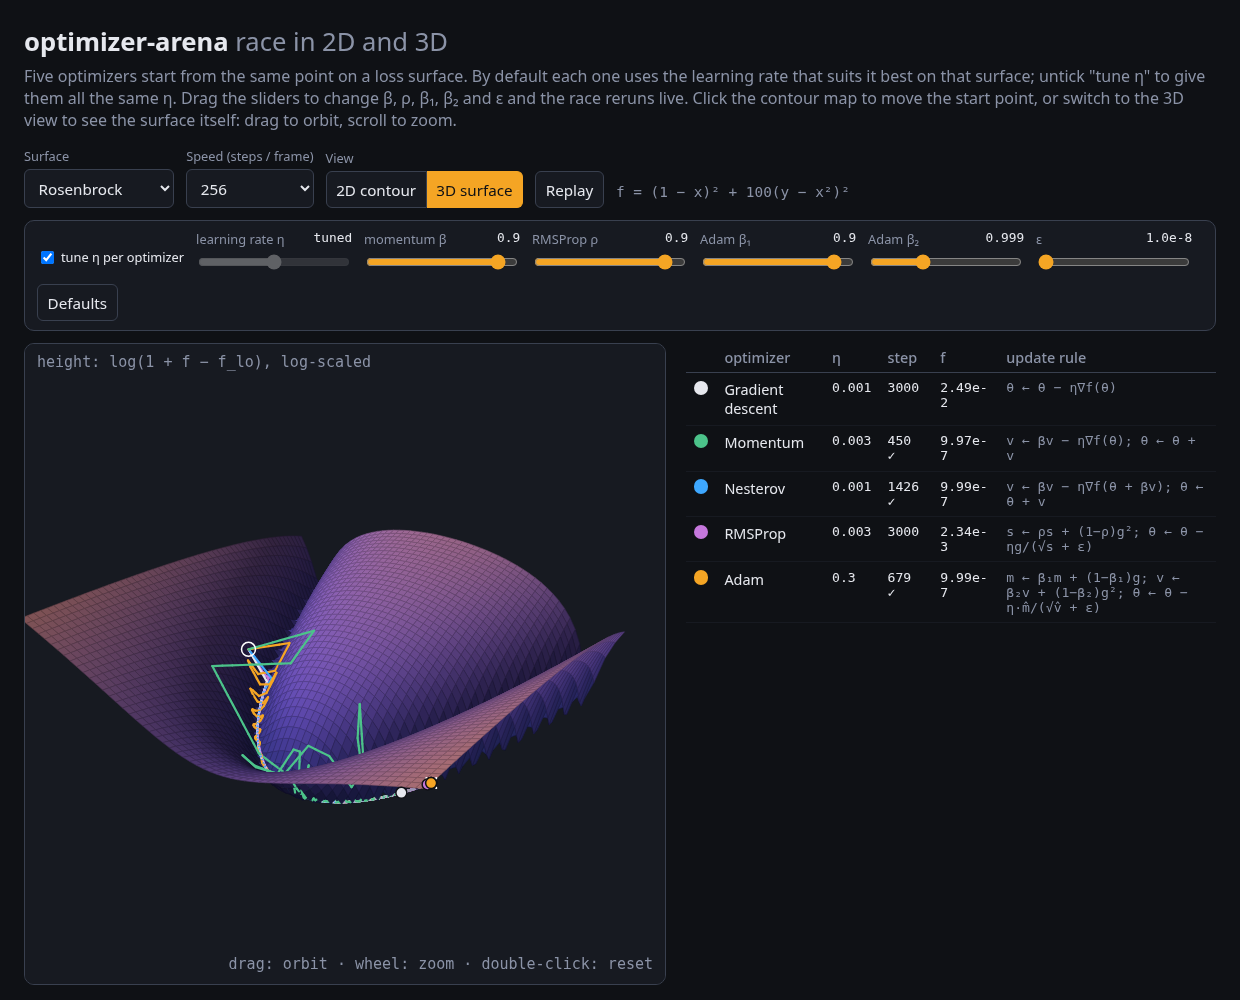
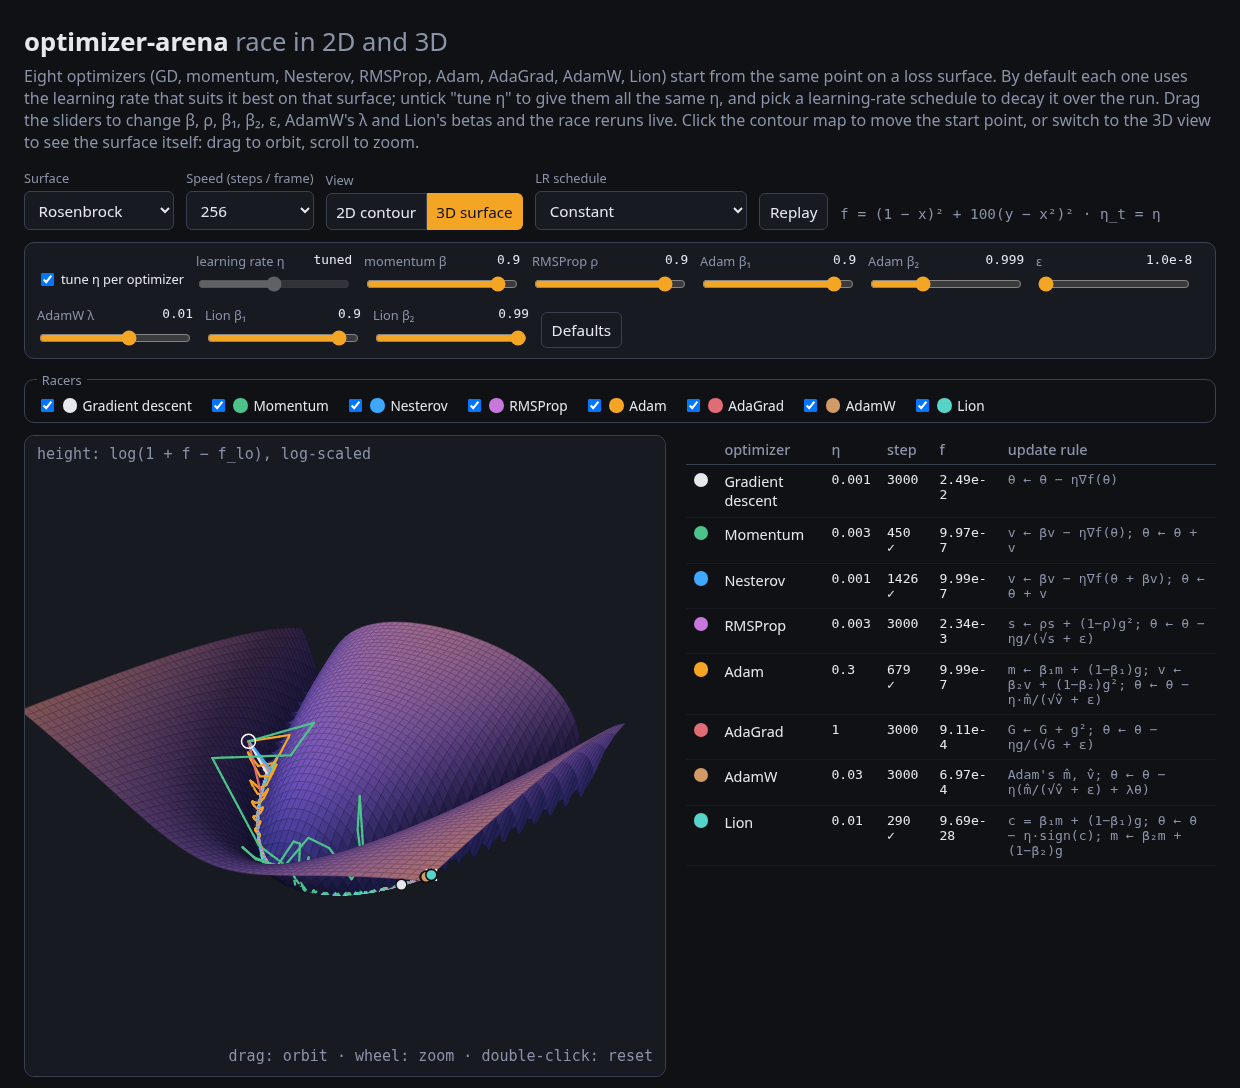
Day 5: README GIFs of the 2D and 3D views, and a measured 'which optimizer when' guide (#5)
Animated 2D/3D GIFs and refreshed stills captured headlessly (scripts/screenshots.sh), docs/which-optimizer.md built only from the measured tables, and Booth's stability limit corrected to 1/9 in docs/lr-schedules.md.

diff --git a/docs/which-optimizer.md b/docs/which-optimizer.md
@@ -1,0 +1,152 @@
+# Which optimizer when
+
+A guide drawn only from what this repo has measured. Every number below is
+copied from [race-results.md](race-results.md), [lr-schedules.md](lr-schedules.md),
+[hyperparameter-sweeps.md](hyperparameter-sweeps.md) or
+[saddle-point.md](saddle-point.md), and all of them are reproducible with
+`npm run race` and `npm run sweep` (re-run for this page on 2026-11-28; the
+tables matched byte for byte).
+
+The usual setup: best η from `{1e-4, 3e-4, …, 1}` per cell, 10,000-step budget,
+goal f − f* < 1e-6 (saddle: f < −1 at a fixed η = 0.01), constant rate unless a
+schedule is named. "Off-lattice" means the start nudged by (√2, e)·10⁻³, which
+removes Lion's exact-landing coincidences (see
+[lr-schedules.md](lr-schedules.md#why-two-tables-per-schedule-lions-lattice)).
+
+**Caveat first.** These are 2D surfaces with exact gradients, no noise, no
+mini-batches and no generalisation. They show *mechanisms* (what each update
+rule does to a valley, a saddle, a ripple) and are not a benchmark for training
+networks. Read "use X" as "on this kind of geometry, X did best here".
+
+## Short version
+
+| situation | pick | measured evidence |
+| --- | --- | --- |
+| No idea yet, one optimizer for everything | **Adam** (defaults) | Reaches the goal on 6 of 8 surfaces at a constant rate (every surface except Rastrigin and Ackley) and 7 of 8 with cosine (6 from the off-lattice start). Never the fastest by much, never stuck on a smooth surface. |
+| Long, curved, narrow valley (Rosenbrock) | **Momentum**, then Adam | Momentum 450 steps (440 off-lattice), Adam 679. GD stops at f = 5.9e-5 and RMSProp at 2.3e-4 after 10,000 steps. |
+| Ill-conditioned bowl (κ = 10) | **RMSProp**, Nesterov, AdaGrad | RMSProp 25 (η = 0.3), Nesterov 45, AdaGrad 47, GD 76. |
+| Well-conditioned convex problem (Booth, κ = 9) | **plain GD** or RMSProp | GD 14 (η = 0.03), RMSProp 14 (η = 1), Nesterov 21; momentum 88 and Adam 93. |
+| Saddle points | anything **with momentum or a normaliser** | Momentum 72, Nesterov 68, RMSProp 75, Adam 80, AdamW 81; GD 349 and AdaGrad 1,440. |
+| Many local minima (Rastrigin) or a flat outer region (Ackley) | **a decaying schedule** matters more than the optimizer | No optimizer reaches either at a constant rate. Cosine: GD reaches Rastrigin in 7,406 steps. Step decay: RMSProp reaches both (3,001 and 2,001). |
+| Short runs, few steps | **AdaGrad** at a large η | Fastest on Himmelblau (16 steps, η = 1) and 47 on the bowl. |
+| You need weight decay | **AdamW**, with a small λ | On Booth, λ = 0 takes 93 steps, 1e-4 takes 705, 1e-2 takes 8,910. |
+| Optimizer memory is tight | **Lion**, with a schedule | One state buffer instead of Adam's two; at a constant rate off the lattice it is slow (bowl 3,999 steps), with cosine it reaches 6 of 8 surfaces. |
+
+## Robustness: how many surfaces each one reaches
+
+Cells that reach the goal, out of the 8 surfaces, counted from the tables in
+[lr-schedules.md](lr-schedules.md) (standard start / off-lattice start):
+
+| schedule | GD | Momentum | Nesterov | RMSProp | Adam | AdaGrad | AdamW | Lion | total of 64 |
+| --- | --- | --- | --- | --- | --- | --- | --- | --- | --- |
+| constant | 5 / 5 | 6 / 6 | 6 / 6 | 4 / 4 | 6 / 6 | 6 / 6 | 5 / 5 | 5 / 5 | 43 / 43 |
+| step decay | 6 / 6 | 7 / 6 | 6 / 6 | **8** / 7 | 6 / 6 | 5 / 5 | 5 / 5 | 6 / 6 | 49 / 47 |
+| cosine | 7 / 7 | 6 / 7 | 6 / 6 | 7 / 7 | 7 / 6 | 5 / 6 | 6 / 6 | 6 / 6 | 50 / 51 |
+| warmup + cosine | 7 / 7 | 7 / 6 | 6 / 7 | 7 / 7 | 6 / 6 | 5 / 5 | 3 / 3 | 7 / 7 | 48 / 48 |
+
+What this says:
+
+- **Adding any schedule helps more than switching optimizer.** The best
+  constant-rate optimizers reach 6 surfaces; the totals go from 43 to 47–51
+  with a schedule.
+- **RMSProp is the most schedule-dependent.** Worst at a constant rate (4),
+  it is the only optimizer to reach all 8 (step decay, standard start):
+  Rosenbrock in 6,001, Rastrigin in 3,001 and Ackley in 2,001 steps. Its
+  roughly constant-size steps are what stall it on Rosenbrock; shrinking η
+  fixes exactly that.
+- **AdamW drops under warmup + cosine** (3 of 8): it misses Booth
+  (f = 3.0e-6), Beale (f = 1.4e-6) and Rosenbrock (f = 6.8e-6), each just
+  short of 1e-6, because the decay keeps pulling toward the origin.
+- **AdaGrad is the least helped** (5 or 6 everywhere): its step already
+  shrinks as 1/√(sum of g²), so a schedule shrinks it twice.
+
+## By optimizer
+
+**Gradient descent.** Best when the problem is well conditioned: 14 steps on
+Booth, 18 on Himmelblau. It is limited by η < 2/λ_max (0.19 converges and 0.21
+diverges on the bowl, a unit test), so on Rosenbrock it crawls (f = 5.9e-5
+after 10,000 steps), and on the saddle it grows by only (1 + 2η) per step:
+349 steps, derived exactly in [saddle-point.md](saddle-point.md). With cosine
+it is the one method that reaches Rastrigin's global minimum from both starts
+(7,406 steps).
+
+**Momentum (heavy ball).** The Rosenbrock winner (450) and a fast saddle
+escaper (72, from its eigenvalue ≈ 1.107 per step). β matters and the best
+value depends on the surface: on the bowl at η = 0.01, β = 0.8 takes 114 steps
+against 132 at 0.9 and 1,238 at 0.99; on Rosenbrock at η = 0.001, β = 0.95
+takes 637 against 1,386 at 0.9. With warmup + cosine it can use η = 0.1 on
+Beale and needs 127 steps instead of 405.
+
+**Nesterov.** Same as momentum but with the gradient taken at the look-ahead
+point, which damps overshoot: 45 on the bowl (momentum 132) and 68 on the
+saddle. On Rosenbrock it is slower than momentum (1,426 against 450).
+Warmup + cosine takes it from 403 to 117 steps on Beale.
+
+**RMSProp.** Per-coordinate scaling undoes conditioning: bowl 25, Booth 14.
+At a constant rate it stalls in valleys (Rosenbrock f = 2.3e-4; in the Beale
+ρ sweep at η = 0.001 only ρ = 0.999 converges, in 8,675 steps). Use it with a schedule:
+under step decay it reaches every surface.
+
+**Adam.** The safe default. Fastest of the non-Lion methods on Beale (205),
+second on Rosenbrock (679), and at the bottom of Ackley's funnel under cosine
+(9,981 steps). Keep the defaults: on Rosenbrock at η = 0.1, β₁ = 0.9 takes
+1,139 steps, β₁ = 0 or 0.5 never get there, and β₂ = 0.9 or 0.99 also miss.
+ε barely matters until it is large (bowl: 149 steps for every ε up to 0.01,
+167 at ε = 1). Its weak spot is easy convex problems, where it pays for its
+averaging: 93 steps on Booth against GD's 14.
+
+**AdaGrad.** The step only shrinks, so the largest rate in the grid (η = 1)
+wins for it everywhere it converges. That makes it excellent early
+(Himmelblau 16, bowl 47) and poor late: Rosenbrock 8,491 and the saddle 1,440
+(√t growth, about 1/(8η²) = 1,250 predicted). Do not combine it with warmup:
+on the bowl it goes from 47 to 571, because the sum of g² is built up while η
+is still tiny. ε is irrelevant up to 0.01 (47 steps).
+
+**AdamW.** Equal to Adam when the minimum is at the origin (bowl 124 against
+132, saddle 81 against 80), and slower everywhere else because decoupled decay
+moves the fixed point toward 0: Booth 8,910, Beale 9,497, Himmelblau 4,336, and
+Rosenbrock stops at f = 3.4e-6. Booth across λ: 93 (λ = 0), 93 (1e-5), 705
+(1e-4), 4,616 (1e-3), 8,910 (1e-2), not reached at 0.1. On the bowl decay
+helps: 37 steps at λ = 1. Here there is no overfitting to regularise against,
+so this is the pure *cost* of decay; pick λ as small as your regulariser
+allows.
+
+**Lion.** Read its standard-start numbers with care: bowl 4, Booth 7, Beale 62
+and Rosenbrock 290 are exact landings on the η-lattice (f ≈ 1e-28 or 0). Off
+the lattice at a constant rate it needs 3,999 steps on the bowl, 9,376 on
+Rosenbrock and 3,211 on Beale, and it never reaches Himmelblau (f = 2.3e-5).
+Sign steps have a fixed size η, so it needs η to shrink: with step decay it
+reaches Himmelblau off the lattice in 4,001 steps and with cosine in 6,682, and
+under warmup + cosine it reaches 7 of 8 surfaces, Ackley included. The default
+betas are the best measured (Beale, cosine, η = 0.01, off-lattice start: 5,804
+steps at β₁ = 0.9, β₂ = 0.99); β₂ = 0.999 never converges.
+
+## Schedules
+
+- **Cosine** gives the best totals (50 / 51 of 64) and is what lets GD find
+  Rastrigin's global minimum (7,406) and RMSProp converge on Rosenbrock
+  (8,370).
+- **Step decay** is the best for RMSProp (8 of 8) and gets GD and RMSProp to
+  the bottom of Ackley soonest (3,001 and 2,001 steps).
+- **Warmup + cosine** lets momentum and Nesterov use a 30× larger peak rate on
+  Beale (η = 0.1: 127 and 117 steps, against 405 and 403), and lets GD win
+  Booth at η = 1 (20 steps), about nine times past the constant-rate
+  stability limit 2/λ_max = 1/9 (Booth's Hessian has eigenvalues 18 and 2):
+  it is done while the ramped rate is still below 0.04. It
+  hurts AdaGrad (bowl 47 → 571) and AdamW (3 of 8).
+- **Runs that finish early do not care.** GD, Nesterov, RMSProp and AdaGrad
+  give the same counts on the bowl under constant, step and cosine (76, 45,
+  25, 47): they are done before the rate has decayed.
+
+## Reproduce
+
+```sh
+npm run race                                   # constant rate
+npm run race -- --schedule cosine              # or step, warmup-cosine
+npm run race -- --schedule cosine --start-off-lattice
+npm run sweep                                  # one hyperparameter at a time
+```
+
+Or try any row in the [live demo](https://optimizer-arena.vercel.app), for
+example
+[Lion against Adam on Himmelblau under cosine](https://optimizer-arena.vercel.app/?surface=himmelblau&schedule=cosine&only=adam,adagrad,adamw,lion).

diff --git a/README.md b/README.md
@@ -10,7 +10,11 @@ Rastrigin, Ackley, Booth), with the update-rule math written next to each one.
 
 Written in TypeScript with no runtime dependencies. Work in progress.
 
-![2D race on Rosenbrock: momentum, Nesterov and Adam reach the minimum while GD and RMSProp are still in the valley](docs/screenshots/rosenbrock.png)
+![The 2D race on Rosenbrock, animated: eight optimizers leave the same start; momentum, Nesterov, Adam and Lion reach the minimum while the rest are still in the valley](docs/screenshots/rosenbrock-2d.gif)
+
+**Which one should I use?** [docs/which-optimizer.md](docs/which-optimizer.md)
+turns the measured tables into a guide: which optimizer and schedule did best
+on which kind of surface, with the numbers behind each pick.
 
 **[Live demo](https://optimizer-arena.vercel.app)** (or `npm run dev` locally) opens the race on a log-scaled contour map of the surface, the
 eight trajectories drawn step by step (tick or untick each racer), and each
@@ -27,7 +31,16 @@ surface in its colour, drag orbits and the wheel zooms. It is a hand-rolled
 projection on canvas 2D with no 3D library; [how it works](#the-3d-view-how-a-surface-gets-onto-a-flat-canvas),
 and [frame by frame](docs/3d-view.md).
 
-![3D view of Rosenbrock in log height: the curved valley, with the five optimizer paths drawn on the surface](docs/screenshots/rosenbrock-3d.png)
+![The 3D view of Rosenbrock in log height, animated: the eight paths drawn on the curved valley as the race runs](docs/screenshots/rosenbrock-3d.gif)
+
+<details>
+<summary>Full-page stills (2D, 3D, Himmelblau in 3D)</summary>
+
+![The demo page in 2D on Rosenbrock after the race, with all eight racers, their tuned η, steps and loss](docs/screenshots/rosenbrock.png)
+![The demo page in 3D on Rosenbrock after the race](docs/screenshots/rosenbrock-3d.png)
+![Himmelblau in 3D: from (−0.5, −0.5) the paths curl into the minimum at (−2.805, 3.131); the other three minima are marked with crosses](docs/screenshots/himmelblau-3d.png)
+
+</details>
 
 ## The problem
 
@@ -594,6 +607,9 @@ The three Day 4 optimizers:
   included; [docs/lr-schedules.md](docs/lr-schedules.md) has all four
   schedules.
 
+For a summary of what all of this means in practice, see
+[Which optimizer when](docs/which-optimizer.md).
+
 Learning rates matter as much as the algorithm: plain GD with $\eta = 0.1$,
 its best rate on the bowl, diverges on Rosenbrock
 within 100 steps (a unit test checks this).
@@ -622,6 +638,7 @@ npm test
 npm run race   # regenerate the results table (add -- --schedule cosine, -- --start-off-lattice)
 npm run sweep  # regenerate the hyperparameter sweeps (add -- --schedule cosine)
 npm run dev
+./scripts/screenshots.sh  # rebuild the README GIFs and stills (needs google-chrome and ffmpeg)
 ```
 
 ## Project structure
@@ -635,7 +652,9 @@ src/race.ts        learning-rate sweep and ranking used by the script and the de
 src/view3d.ts      3D view math: rotations, perspective, height map, mesh, painter's order
 scripts/race.ts    prints the results table (npm run race)
 scripts/sweep.ts   one-hyperparameter-at-a-time sweeps (npm run sweep)
-docs/              measured tables and derivations: race results, sweeps, LR schedules, saddle escape, 3D view
+scripts/screenshots.sh  headless Chrome + ffmpeg capture of docs/screenshots (no npm dependencies)
+docs/              measured tables and derivations: race results, sweeps, LR schedules, saddle escape, 3D view,
+                   and which-optimizer.md, the practical guide built from them
 web/               the race demo, 2D contour and 3D surface (Vite, canvas, no framework)
 test/              Vitest suite
 ```

diff --git a/docs/lr-schedules.md b/docs/lr-schedules.md
@@ -173,9 +173,9 @@ Off-lattice starts:
   Nesterov on Beale win at η = 0.1 (127 and 117 steps) where the constant
   race's best was η = 0.003 (405 and 403): ramping up over 500 steps gets
   them into the valley before the rate is large enough to throw them out. On
-  Booth GD wins at η = 1 in 20 steps, ten times past its 2/λ_max = 0.2
-  stability limit, because it converges while η_t = (t+1)/500 is still
-  below 0.04. The cost is a slower start, and AdaGrad pays most: on the bowl it goes
+  Booth GD wins at a peak η = 1 in 20 steps, nine times past Booth's
+  2/λ_max = 1/9 stability limit (Hessian eigenvalues 18 and 2), because it
+  converges while η_t = (t+1)/500 is still below 0.04, well inside it. The cost is a slower start, and AdaGrad pays most: on the bowl it goes
   from 47 steps to 571, because G sums the large gradients at the start
   point while η_t is still tiny, and by the time the rate has ramped up √G
   is already large and never shrinks.
